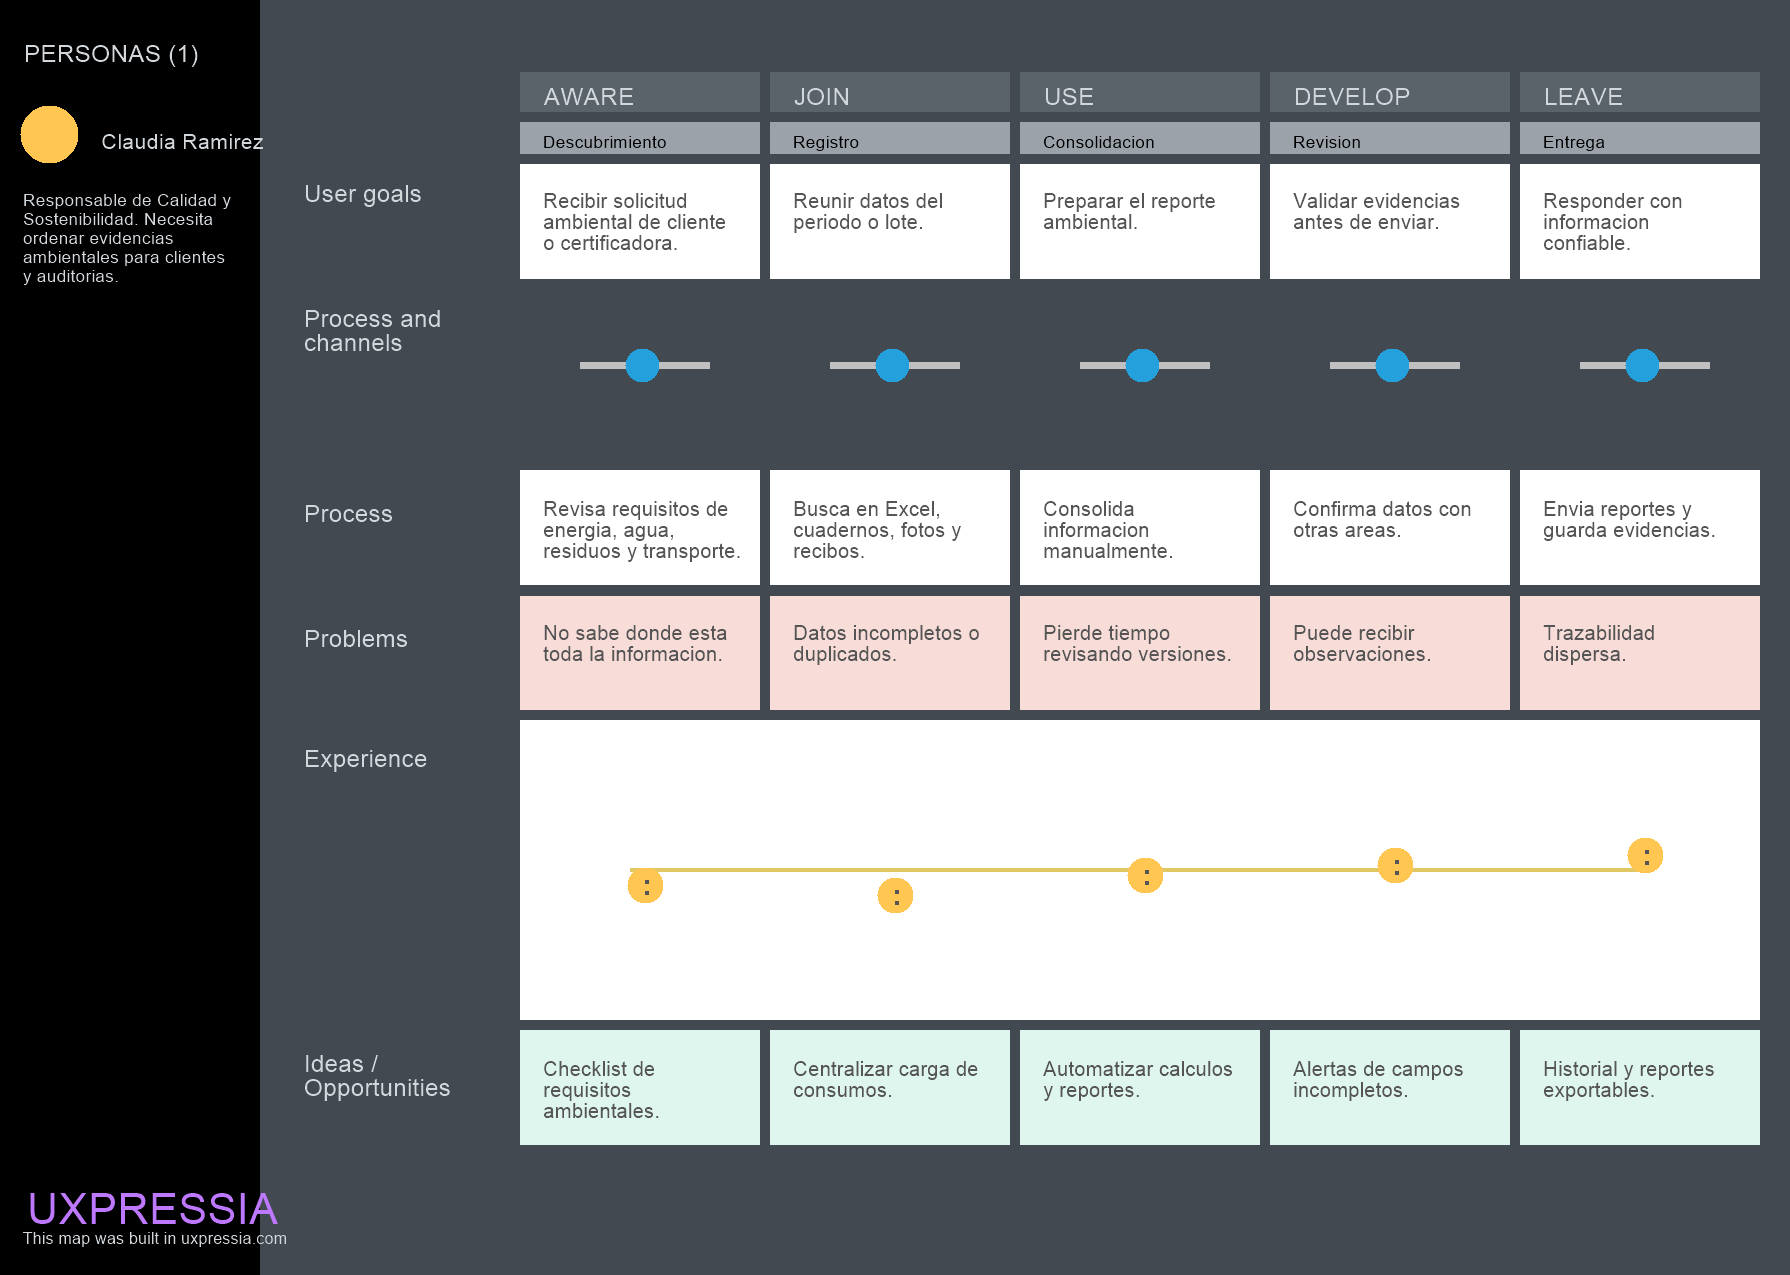
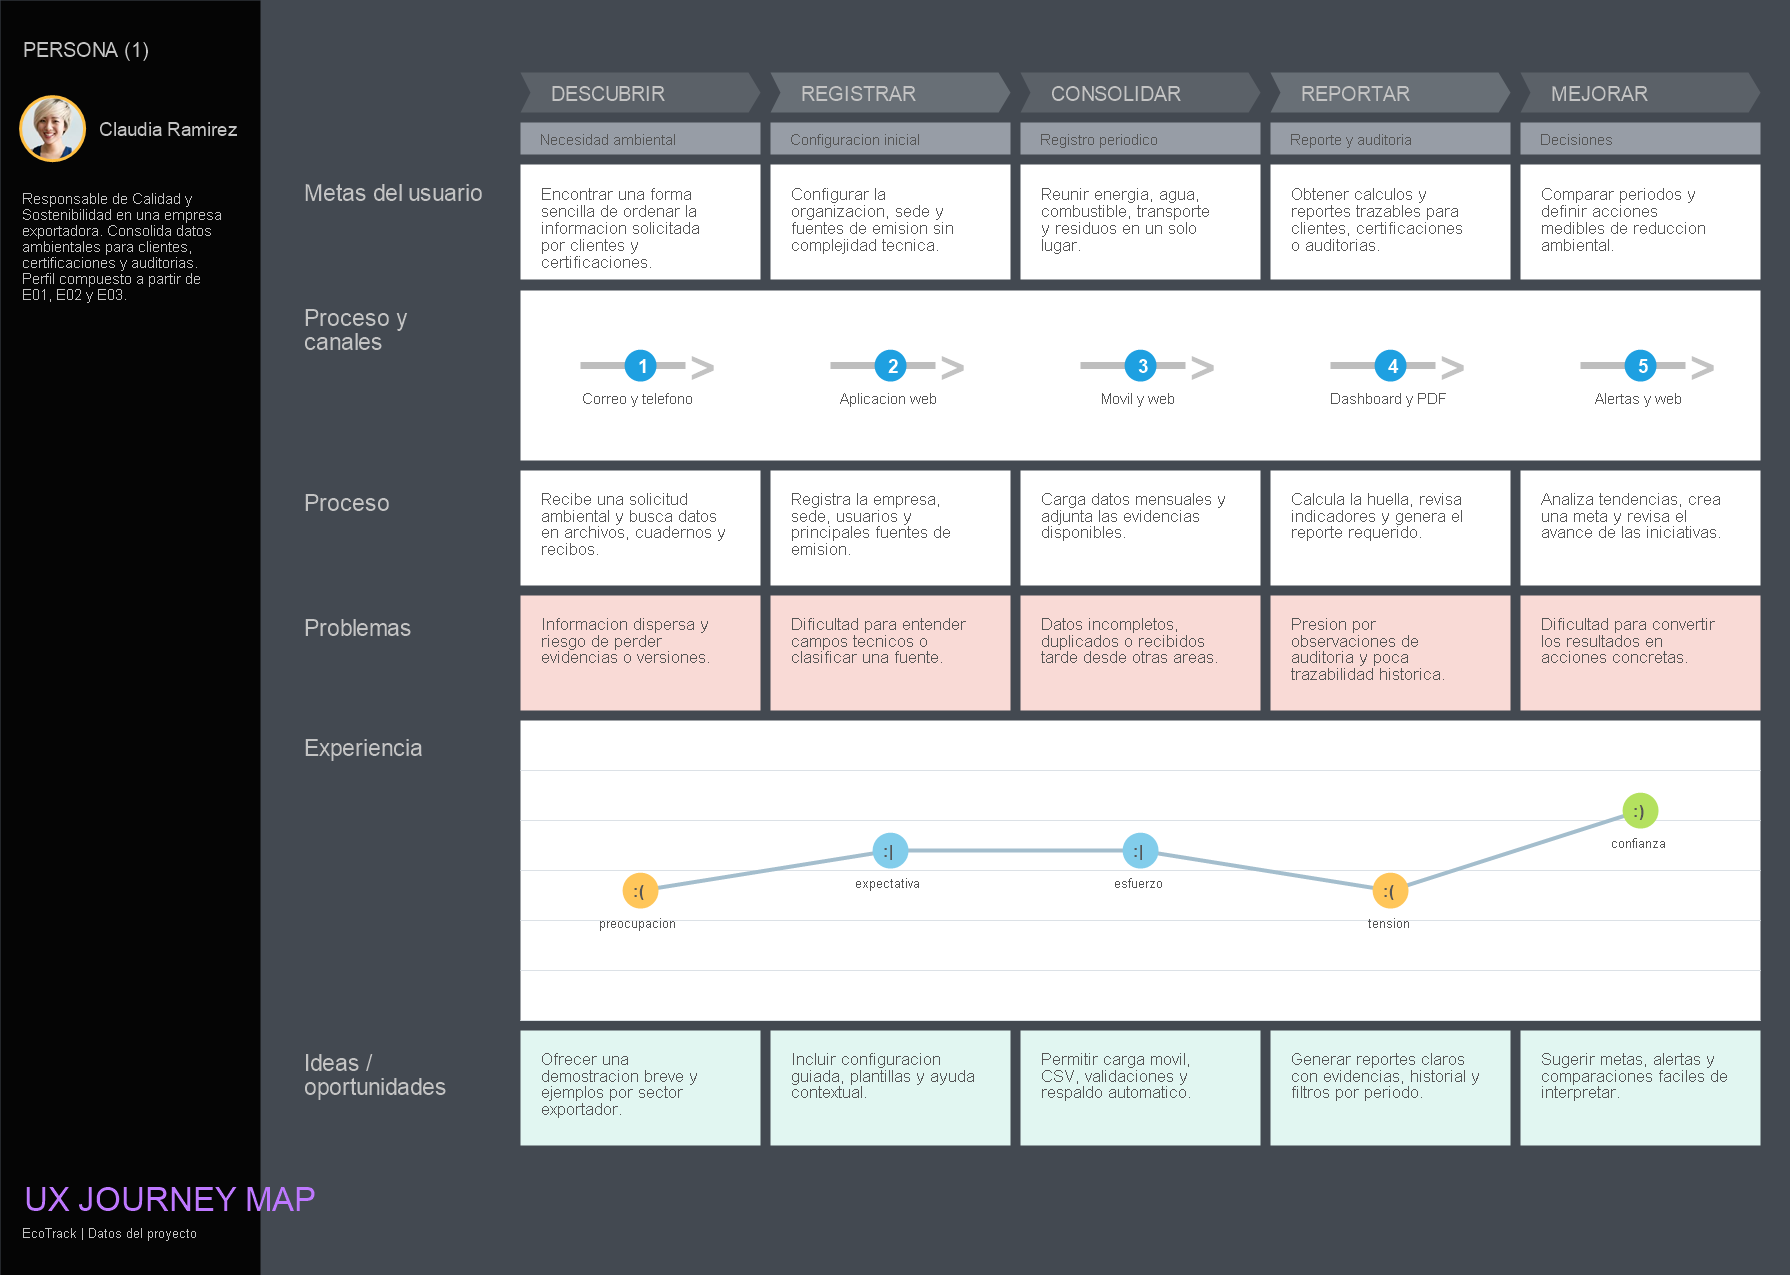
docs(chapter-02): redesign user journey maps

diff --git a/README.md b/README.md
@@ -899,7 +899,7 @@ La User Task Matrix (Matriz de Tareas del Usuario) mapea las tareas clave que re
 - **Gerencia y auditoria:** Su participacion es menos frecuente en el registro operativo, pero tiene alta importancia en la revision de dashboards, reportes, evidencias historicas y resultados que respaldan decisiones o verificaciones.
 ### 2.3.3. User Journey Mapping.
 
-A continuacion, se presenta el User Journey Mapping (Mapa de Experiencia del Usuario) que describe las etapas clave del recorrido de cada segmento objetivo frente a la solucion, incluyendo los puntos de contacto, emociones y oportunidades de mejora.
+A continuacion, se presentan los User Journey Maps de ambos segmentos. Cada mapa mantiene cinco etapas y muestra metas del usuario, proceso y canales, actividades, problemas, evolucion de la experiencia e ideas u oportunidades para EcoTrack.
 
 - **Segmento 1: Empresas exportadoras**
   El siguiente Journey Map ilustra el proceso que sigue una responsable de Calidad y Sostenibilidad de una empresa exportadora para recopilar datos ambientales, preparar evidencias para clientes o certificadoras y responder a observaciones de auditoria. El recorrido muestra como actualmente depende de hojas de calculo, cuadernos, recibos y documentos dispersos, lo que genera riesgo de perdida de informacion, retrasos y dificultad para demostrar cumplimiento ambiental.
